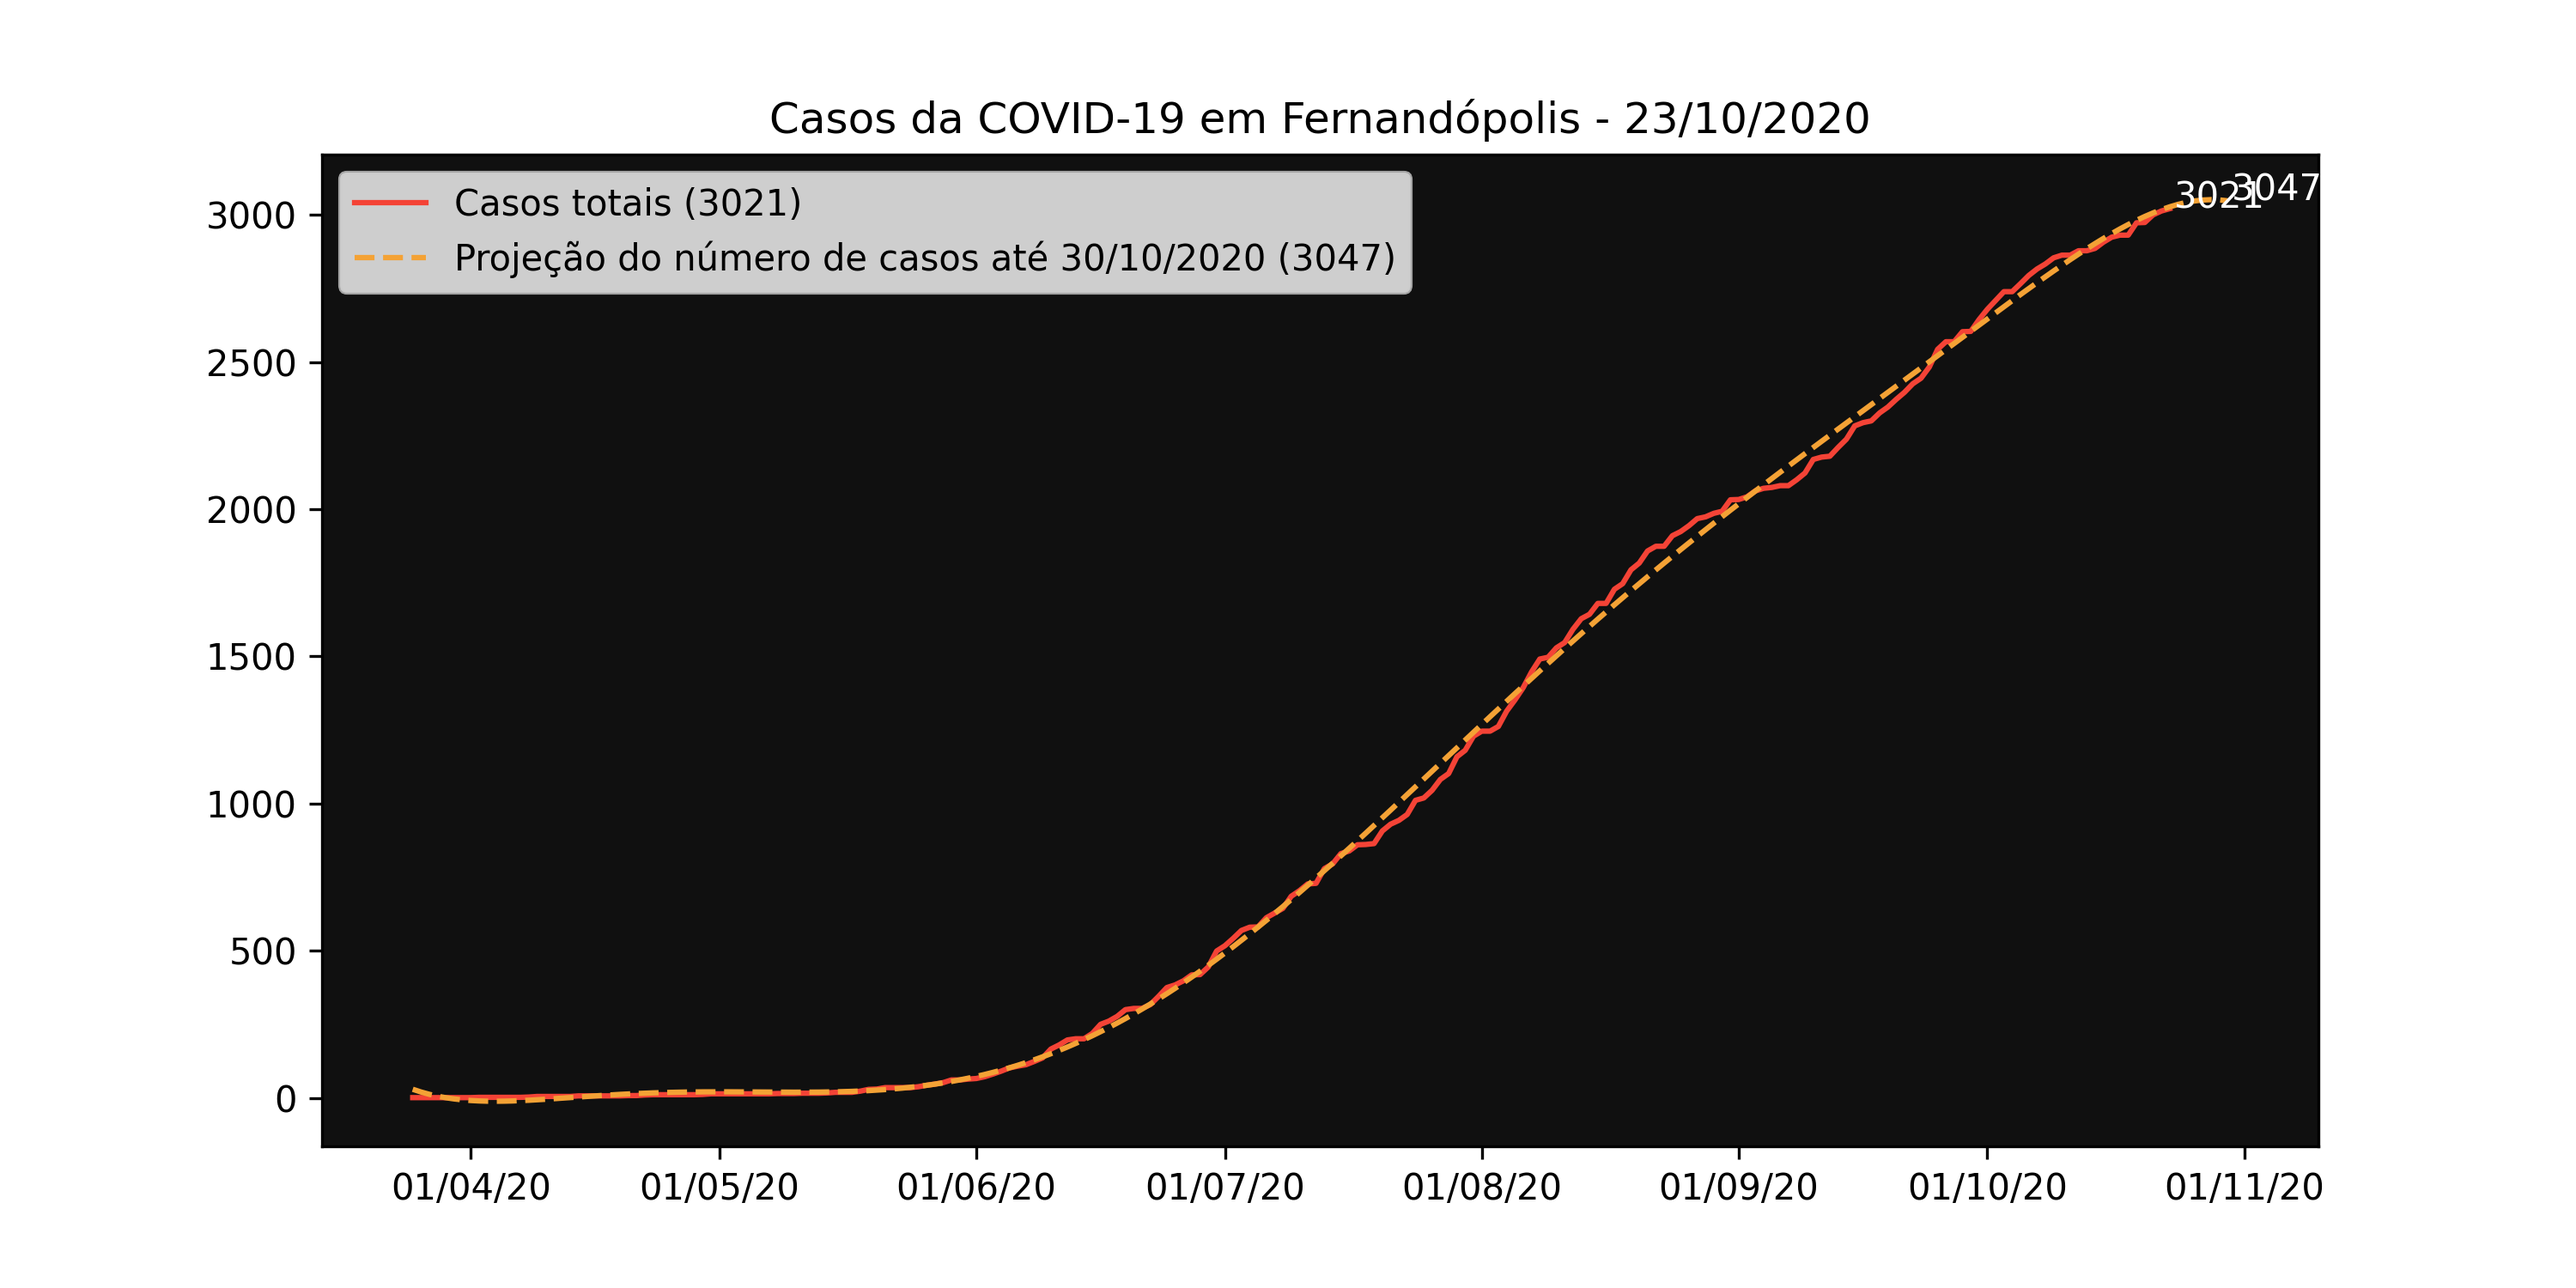
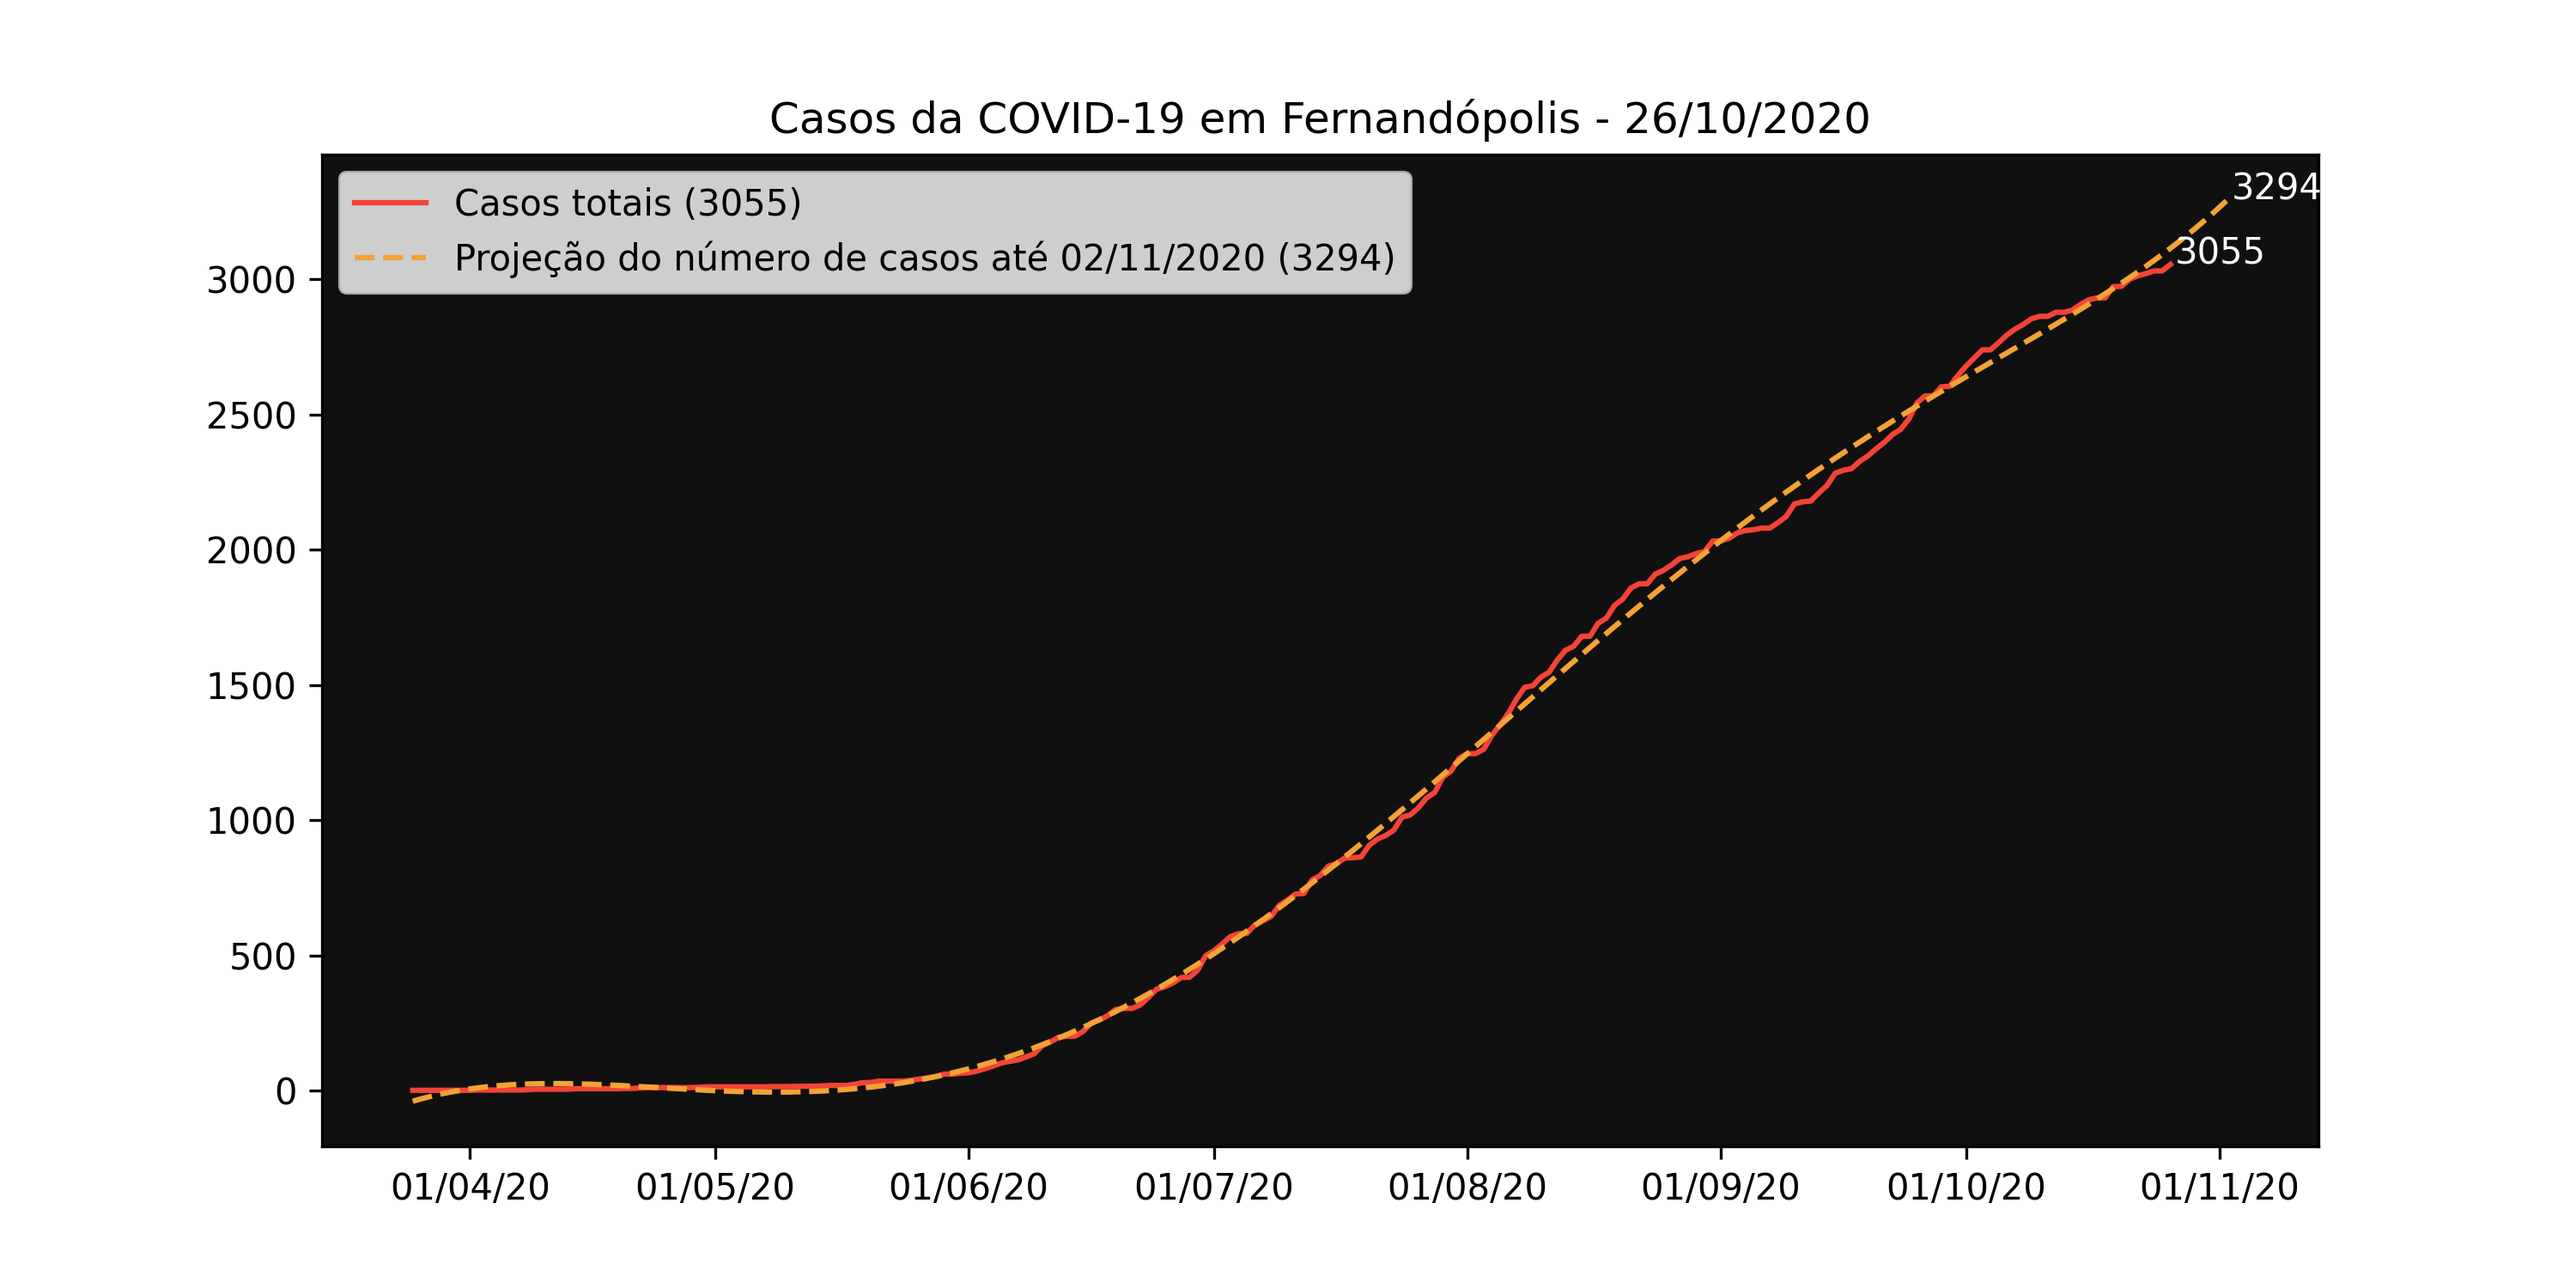
atualização ter 27 out 2020 10:40:06 -03

diff --git a/chart-generator/main.py b/chart-generator/main.py
@@ -125,8 +125,8 @@ def line_chart(ds, dateFmt):
     fig.set_dpi(300)
 
     # polynomial function
-    def func(x, a, b, c, d, e, f, g, h):
-        params = [a, b, c, d, e, f, g, h]
+    def func(x, a, b, c, d, e, f, g):
+        params = [a, b, c, d, e, f, g]
         n = len(params)
         total = 0
         for i in range(0, n):
